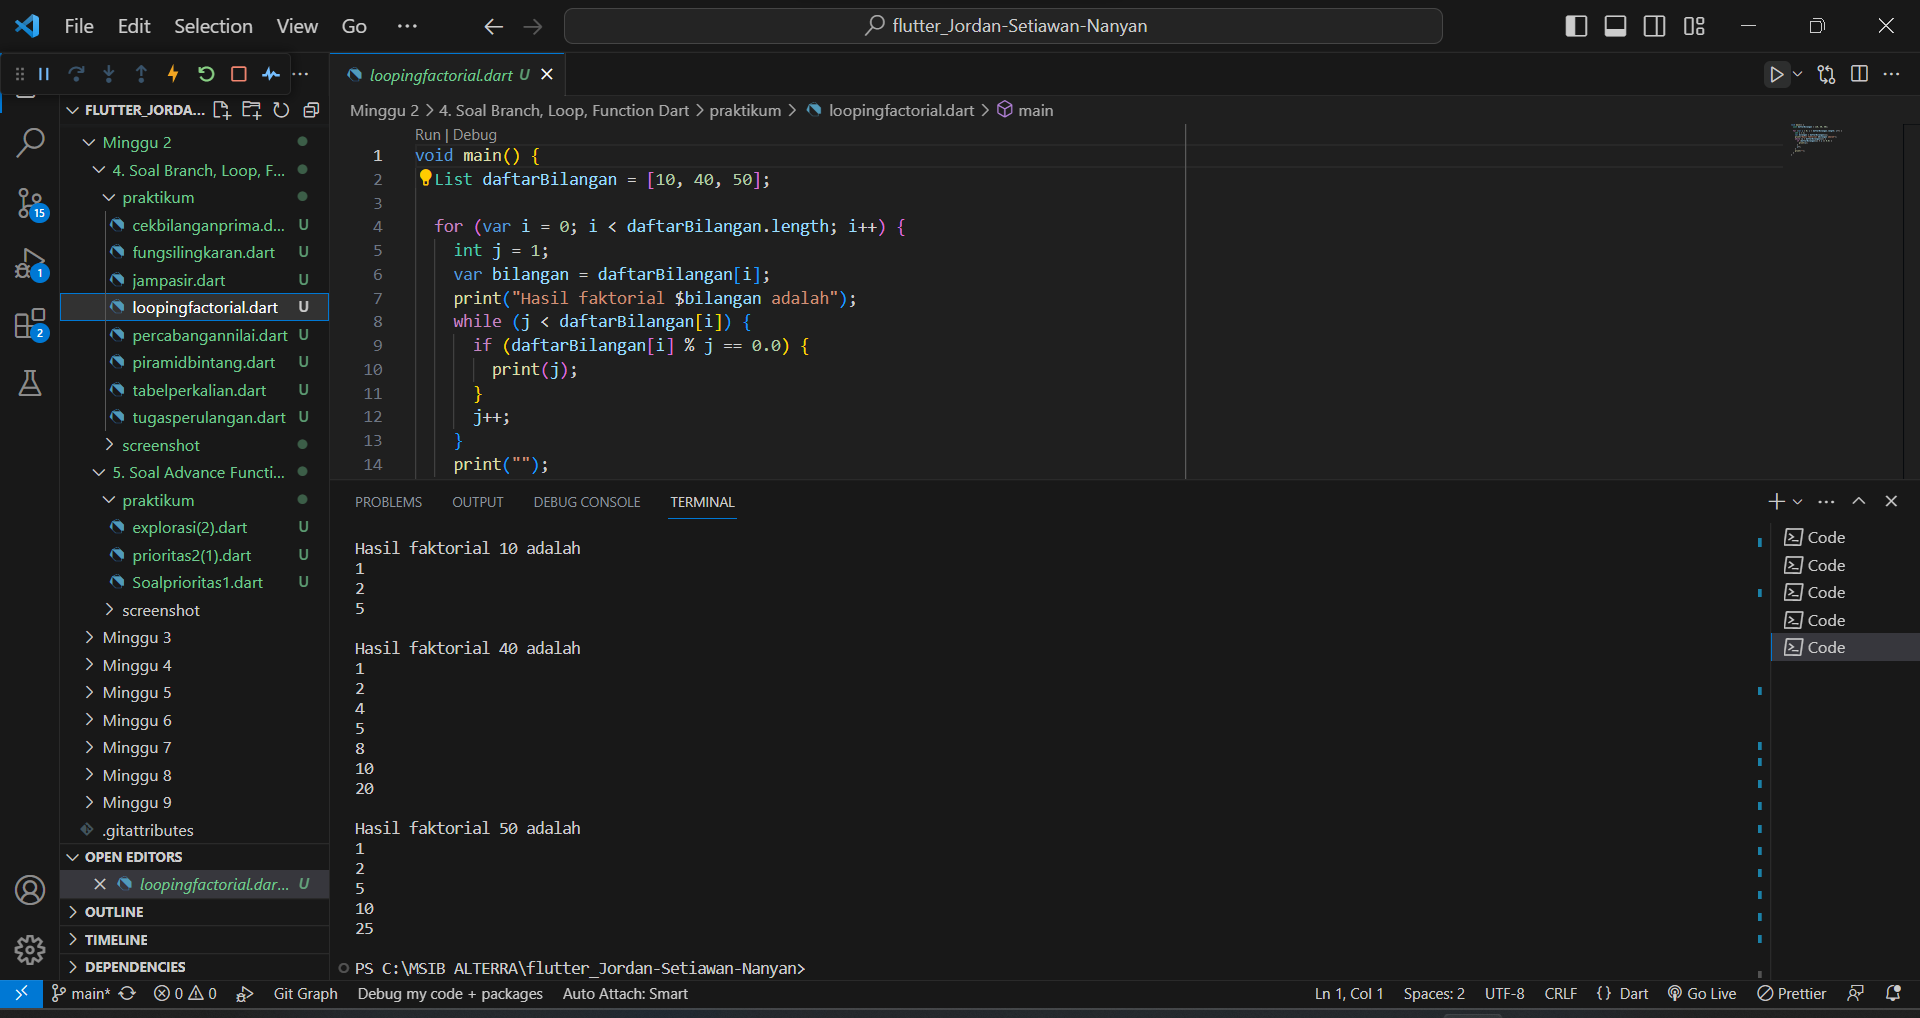
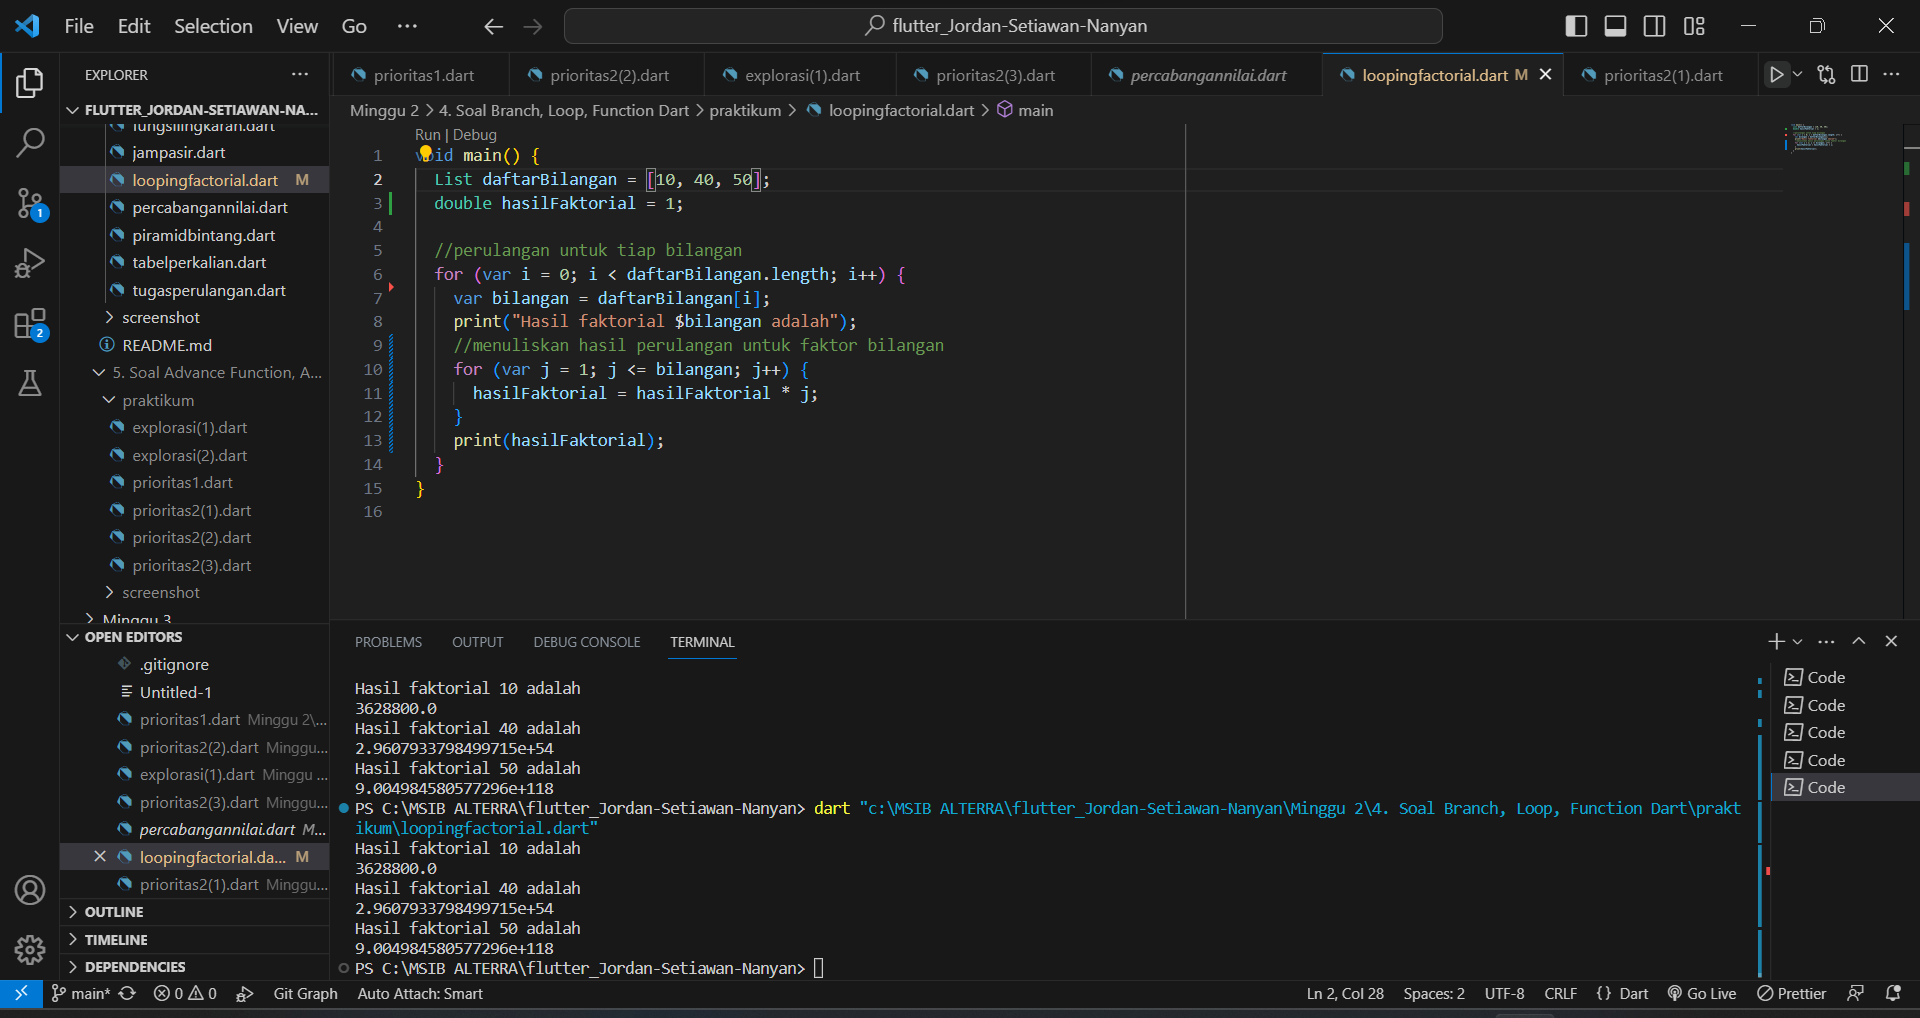
Jawaban Soal Branch, Loop, Function

diff --git a/Minggu 2/4. Soal Branch, Loop, Function Dart/praktikum/loopingfactorial.dart b/Minggu 2/4. Soal Branch, Loop, Function Dart/praktikum/loopingfactorial.dart
@@ -1,18 +1,15 @@
 void main() {
   List daftarBilangan = [10, 40, 50];
+  double hasilFaktorial = 1;
 
   //perulangan untuk tiap bilangan
   for (var i = 0; i < daftarBilangan.length; i++) {
-    int j = 1;
     var bilangan = daftarBilangan[i];
     print("Hasil faktorial $bilangan adalah");
-    //menuliskan hasil perulangan untuk faktorialnya
-    while (j < daftarBilangan[i]) {
-      if (daftarBilangan[i] % j == 0.0) {
-        print(j);
-      }
-      j++;
+    //menuliskan hasil perulangan untuk faktor bilangan
+    for (var j = 1; j <= bilangan; j++) {
+      hasilFaktorial = hasilFaktorial * j;
     }
-    print("");
+    print(hasilFaktorial);
   }
 }
